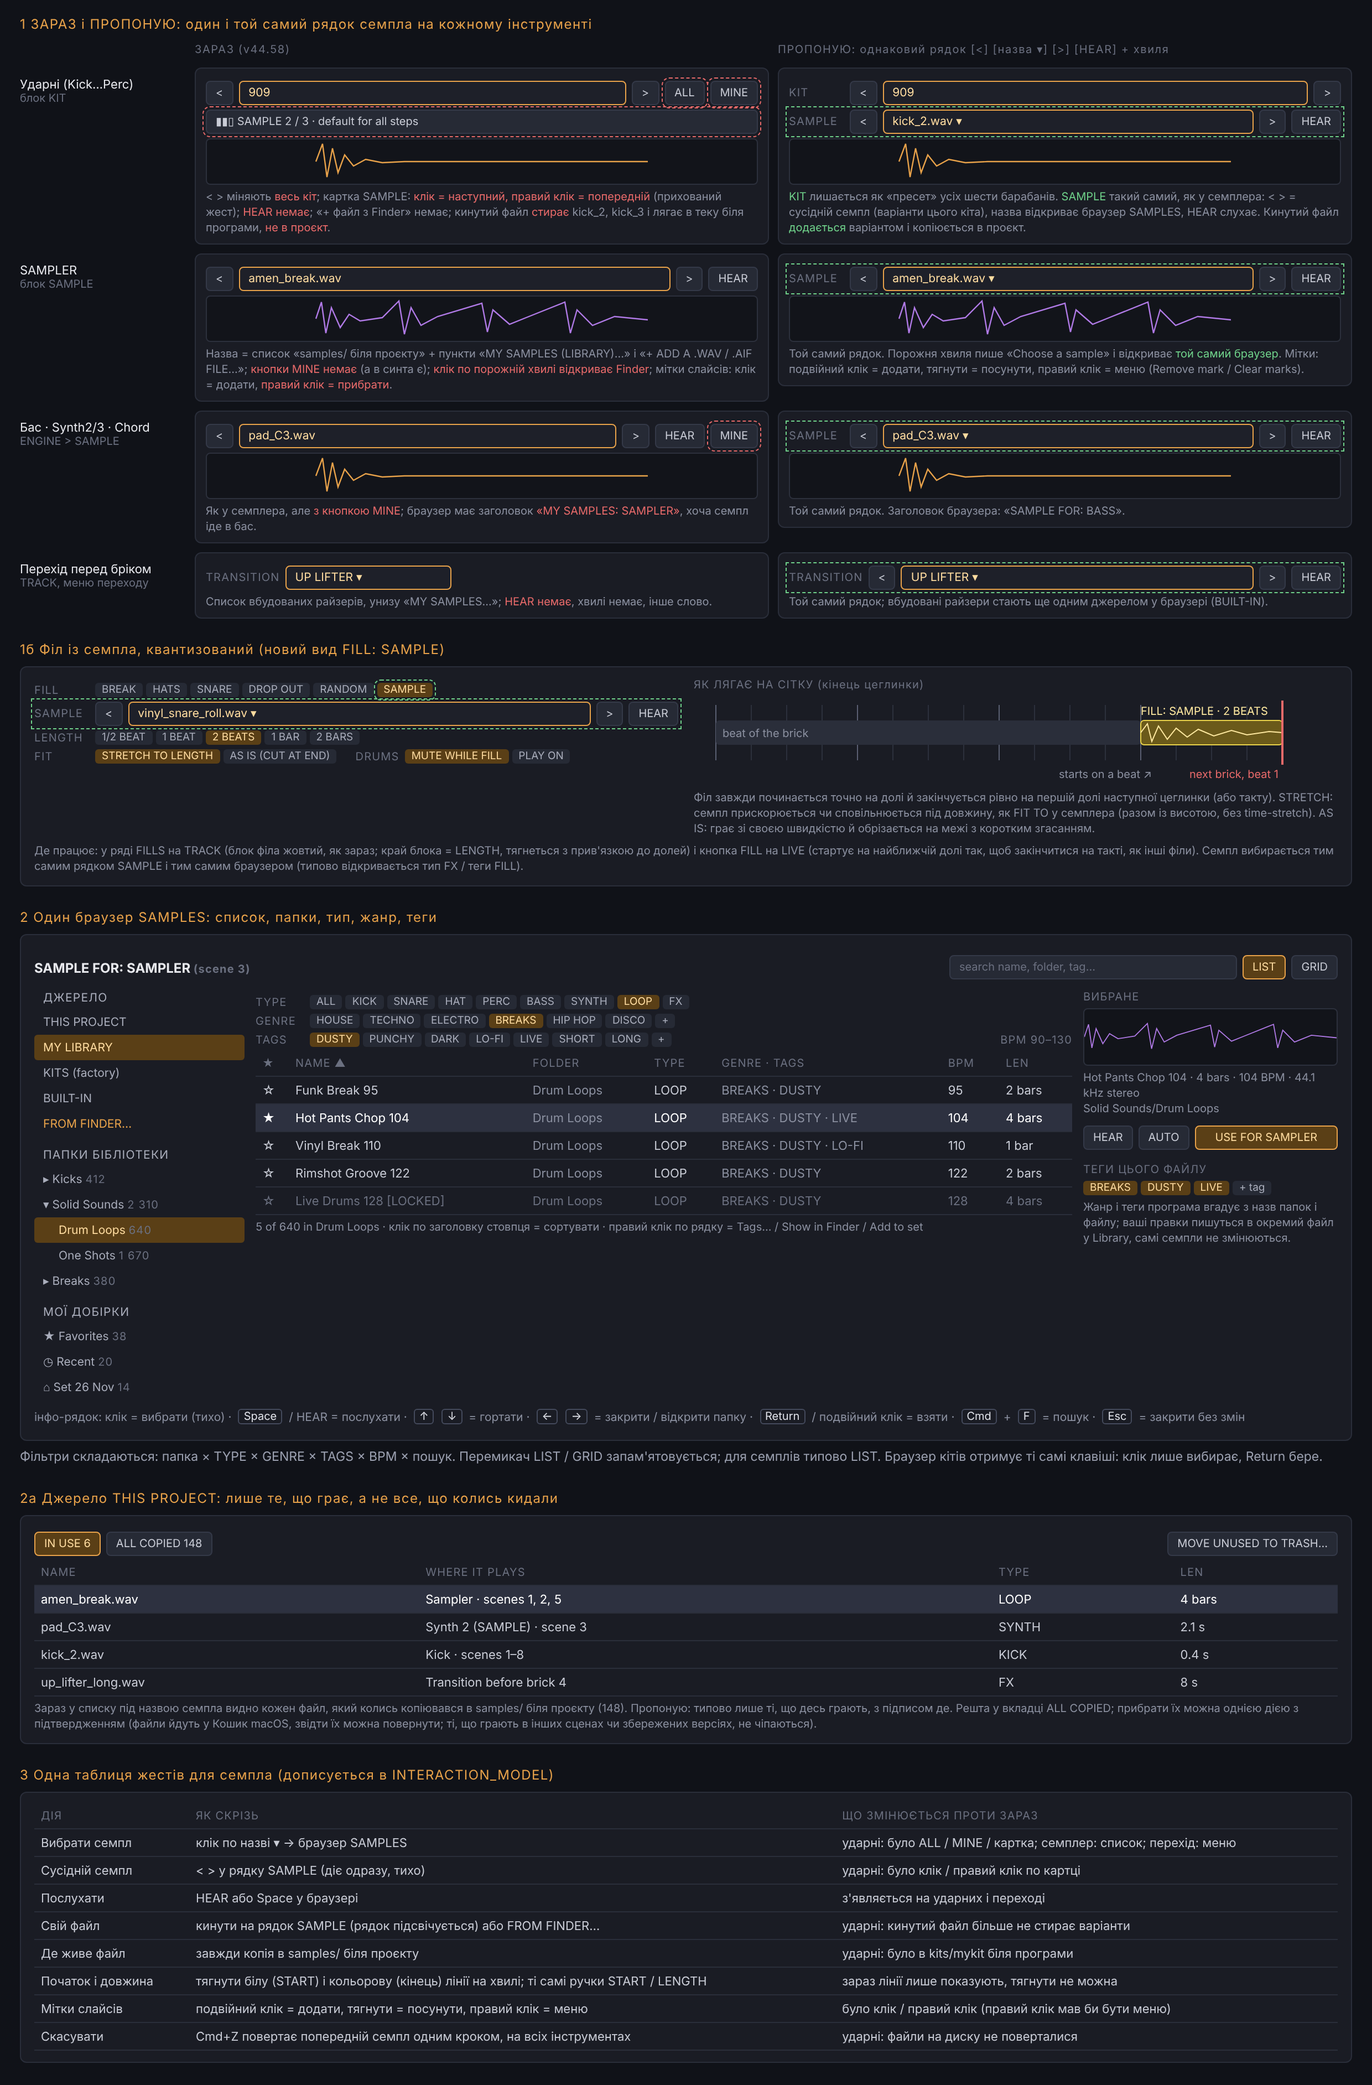
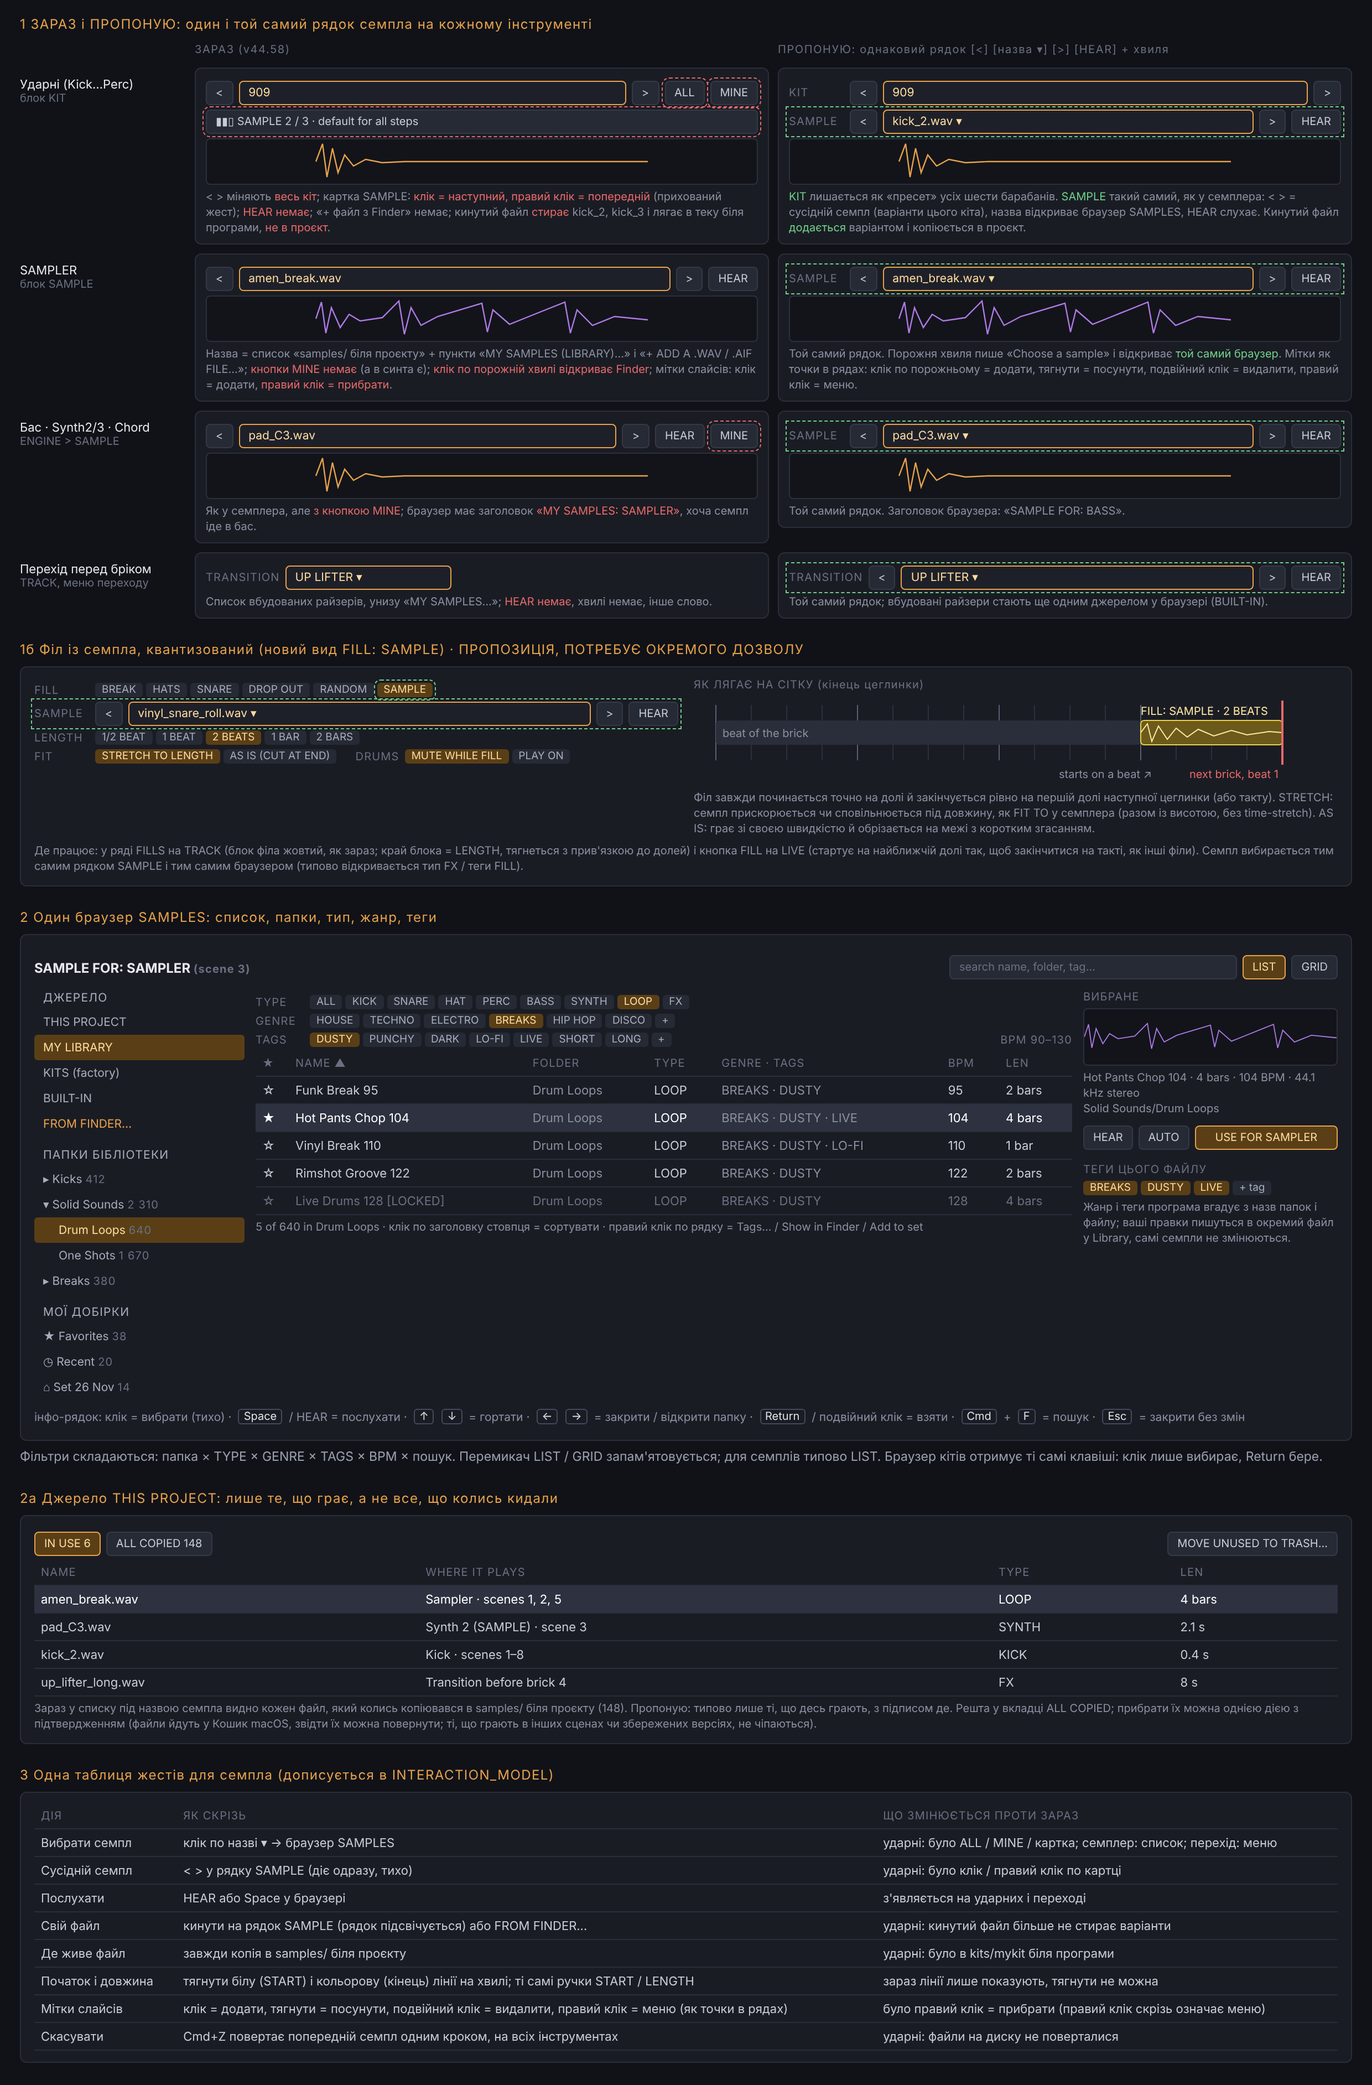
Docs: Ц4b review fixes (LIVE-10 is Н3, slice marks like lane points, cleanup safeguard, author request noted, SAMPLE fill marked as proposal in mockup)
Claude-Session: https://claude.ai/code/session_01TZuBrPxWqNJiMnVJ8qyfKE

Changed region(s): [[0.621, 0.8694, 0.8073, 0.9936], [0.1552, 0.8694, 0.4347, 0.9936], [0.5899, 0.1553, 0.621, 0.1863]]

diff --git a/docs/mockups/v45_samples_unified.html b/docs/mockups/v45_samples_unified.html
@@ -48,7 +48,7 @@ table.t th{color:#6b7080;font-weight:normal;font-size:10px;letter-spacing:.06em}
   <div class="cap">Назва = список «samples/ біля проєкту» + пункти «MY SAMPLES (LIBRARY)...» і «+ ADD A .WAV / .AIF FILE...»; <b>кнопки MINE немає</b> (а в синта є); <b>клік по порожній хвилі відкриває Finder</b>; мітки слайсів: клік = додати, <b>правий клік = прибрати</b>.</div></div>
  <div class="cell"><div class="row new"><span class="lbl" style="width:50px">SAMPLE</span><span class="btn">&lt;</span><span class="name">amen_break.wav ▾</span><span class="btn">&gt;</span><span class="btn">HEAR</span></div>
   <div class="wave"><svg width="100%" height="40"><use href="#w2"/></svg></div>
-  <div class="cap">Той самий рядок. Порожня хвиля пише «Choose a sample» і відкриває <i>той самий браузер</i>. Мітки: подвійний клік = додати, тягнути = посунути, правий клік = меню (Remove mark / Clear marks).</div></div>
+  <div class="cap">Той самий рядок. Порожня хвиля пише «Choose a sample» і відкриває <i>той самий браузер</i>. Мітки як точки в рядах: клік по порожньому = додати, тягнути = посунути, подвійний клік = видалити, правий клік = меню.</div></div>
 
  <div class="who">Бас · Synth2/3 · Chord<small>ENGINE &gt; SAMPLE</small></div>
  <div class="cell"><div class="row"><span class="btn">&lt;</span><span class="name">pad_C3.wav</span><span class="btn">&gt;</span><span class="btn">HEAR</span><span class="btn bad">MINE</span></div>
@@ -65,7 +65,7 @@ table.t th{color:#6b7080;font-weight:normal;font-size:10px;letter-spacing:.06em}
   <div class="cap">Той самий рядок; вбудовані райзери стають ще одним джерелом у браузері (BUILT-IN).</div></div>
 </div></div>
 
-<div class="sec"><p class="h">1б  Філ із семпла, квантизований (новий вид FILL: SAMPLE)</p>
+<div class="sec"><p class="h">1б  Філ із семпла, квантизований (новий вид FILL: SAMPLE) · ПРОПОЗИЦІЯ, ПОТРЕБУЄ ОКРЕМОГО ДОЗВОЛУ</p>
 <div class="panel" style="width:1204px">
  <div style="display:grid;grid-template-columns:1fr 1fr;gap:14px">
  <div>
@@ -142,7 +142,7 @@ table.t th{color:#6b7080;font-weight:normal;font-size:10px;letter-spacing:.06em}
 <tr><td>Свій файл</td><td>кинути на рядок SAMPLE (рядок підсвічується) або FROM FINDER…</td><td>ударні: кинутий файл більше не стирає варіанти</td></tr>
 <tr><td>Де живе файл</td><td>завжди копія в samples/ біля проєкту</td><td>ударні: було в kits/mykit біля програми</td></tr>
 <tr><td>Початок і довжина</td><td>тягнути білу (START) і кольорову (кінець) лінії на хвилі; ті самі ручки START / LENGTH</td><td>зараз лінії лише показують, тягнути не можна</td></tr>
-<tr><td>Мітки слайсів</td><td>подвійний клік = додати, тягнути = посунути, правий клік = меню</td><td>було клік / правий клік (правий клік мав би бути меню)</td></tr>
+<tr><td>Мітки слайсів</td><td>клік = додати, тягнути = посунути, подвійний клік = видалити, правий клік = меню (як точки в рядах)</td><td>було правий клік = прибрати (правий клік скрізь означає меню)</td></tr>
 <tr><td>Скасувати</td><td>Cmd+Z повертає попередній семпл одним кроком, на всіх інструментах</td><td>ударні: файли на диску не поверталися</td></tr>
 </table></div></div>
 <div style="height:14px"></div>

diff --git a/docs/ROADMAP.md b/docs/ROADMAP.md
@@ -639,12 +639,12 @@ O8. **Тачпад/дрібні жести** (S): прокрутка, pinch-зу
 1. **Один рядок семпла скрізь:** `[<] [назва ▾] [>] [HEAR]`, під ним хвиля. На ударних над ним лишається рядок KIT як «пресет» усіх шести барабанів. `<` `>` = сусідній семпл у тому самому місці (варіанти кіта, семпли проєкту, переходи), діють одразу й тихо.
 2. **Один браузер SAMPLES** з будь-якого місця; заголовок каже, куди піде файл («SAMPLE FOR: KICK / BASS / TRANSITION BEFORE BRICK 3»). Джерела: THIS PROJECT, MY LIBRARY, KITS, BUILT-IN (вбудовані райзери), FROM FINDER…
 3. **Однакові клавіші в усіх браузерах (погоджено автором):** клік = лише вибрати (тихо), Space / HEAR = послухати, ↑↓ = гортати, Return / подвійний клік = взяти, Esc = без змін. Браузер кітів теж: клік більше не вантажить кіт, пробувати кіти під час гри стрілками `<` `>` у рядку KIT.
-4. **Запит автора до браузера:** вигляд **списком** (стовпці назва, папка, тип, жанр · теги, BPM, довжина; сортування кліком по заголовку; перемикач LIST / GRID, для семплів типово LIST); папки бібліотеки деревом з кількістю файлів; добірки (улюблене, останні, набори під виступ); фільтри складаються (папка × тип × **жанр** × **теги** × BPM × пошук); жанр і теги програма вгадує з назв папок і файлів, автор поправляє (правки в окремому файлі в `Documents/TR-Brick/Library`, самі семпли не змінюються).
-5. **THIS PROJECT показує лише те, що грає** (з підписом де), а не кожен файл, що колись копіювався в `samples/`; решта у вкладці ALL COPIED і прибирається однією дією з підтвердженням (у Кошик macOS).
+4. **Запит автора до браузера (25 листопада 2026; автор попросив сам, тому це виняток із правила «нових фіч до Ц5 немає», якщо автор не вирішить інакше):** вигляд **списком** (стовпці назва, папка, тип, жанр · теги, BPM, довжина; сортування кліком по заголовку; перемикач LIST / GRID, для семплів типово LIST); папки бібліотеки деревом з кількістю файлів; добірки (улюблене, останні, набори під виступ); фільтри складаються (папка × тип × **жанр** × **теги** × BPM × пошук); жанр і теги програма вгадує з назв папок і файлів, автор поправляє (правки в окремому файлі в `Documents/TR-Brick/Library`, самі семпли не змінюються).
+5. **THIS PROJECT показує лише те, що грає** (з підписом де), а не кожен файл, що колись копіювався в `samples/`; решта у вкладці ALL COPIED і прибирається однією дією з підтвердженням (у Кошик macOS); файли, що грають в інших сценах чи потрібні збереженим версіям проєкту, не чіпаються.
 6. **Файл завжди копіюється в проєкт**, і для ударних теж; кинутий на ударні файл додається варіантом, нічого не стирає; Cmd+Z повертає попередній семпл одним кроком.
-7. **Хвиля однакова:** тягнути START і кінець; мітки слайсів: подвійний клік = додати, тягнути = посунути, правий клік = меню.
+7. **Хвиля однакова:** тягнути START і кінець; мітки слайсів як точки в рядах (INTERACTION_MODEL): клік по порожньому місцю = додати, тягнути = посунути, подвійний клік = видалити, правий клік = меню (Remove mark, Clear marks).
 
-Залежності: після Н1 (LIVE-2: семпли читаються поза звуковим замком, інакше HEAR і браузер під час гри дають тишу) і LIVE-10 (сканування тек у фоні, бо в бібліотеці тисячі файлів); пункт 6 змінює файл проєкту, тому після Н2 (номер формату, захист ключів, fuzz-операція, старий файл для перевірки). Окремими PR: рядок і слова; браузер (список, папки, клавіші); жанри, теги, добірки; THIS PROJECT; жести хвилі; ударні семпли в проєкт.
+Залежності: після Н1 (LIVE-2: семпли читаються поза звуковим замком, інакше HEAR і браузер під час гри дають тишу) і Н3 (LIVE-10: сканування тек у фоні, бо в бібліотеці тисячі файлів); пункт 6 змінює файл проєкту, тому після Н2 (номер формату, захист ключів, fuzz-операція, старий файл для перевірки). Окремими PR: рядок і слова; браузер (список, папки, клавіші); жанри, теги, добірки; THIS PROJECT; жести хвилі; ударні семпли в проєкт.
 
 **Запропоновано, чекає окремого дозволу автора (нова фіча, а правило Ц забороняє нові фічі до Ц5): FILL: SAMPLE.** Шостий вид філа з семпла, квантизований: LENGTH 1/2 BEAT…2 BARS, старт на долі й кінець рівно на першій долі наступної цеглинки (на LIVE на найближчому такті); FIT = STRETCH TO LENGTH (швидкість разом із висотою, як FIT TO семплера) або AS IS (обрізати з коротким згасанням); DRUMS = MUTE WHILE FILL / PLAY ON; на TRACK той самий жовтий блок у ряді FILLS. Варіанти: разом із Ц4б або першим після Ц5.
 
